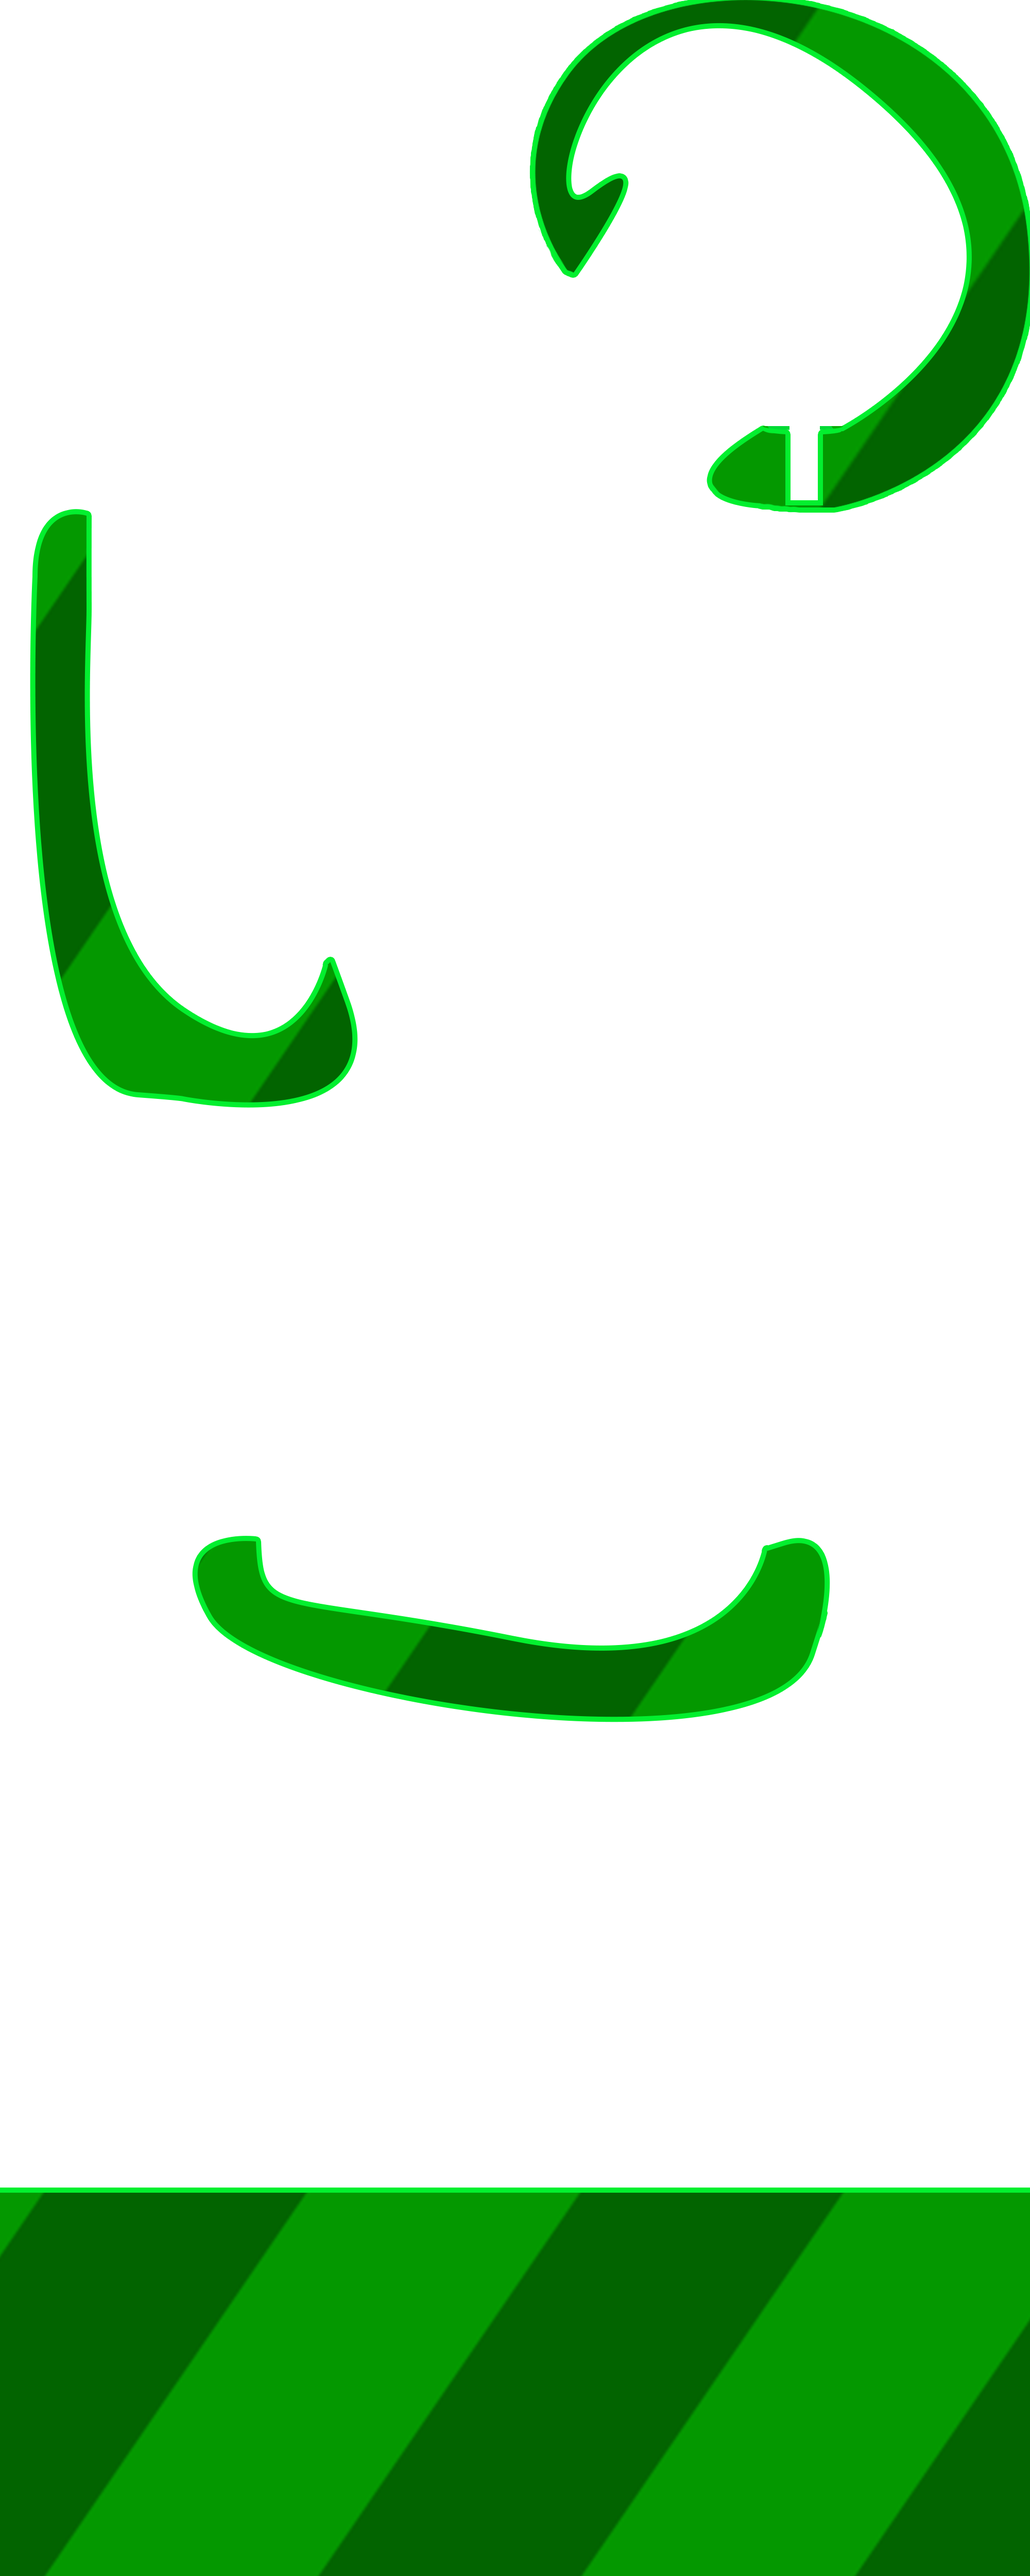
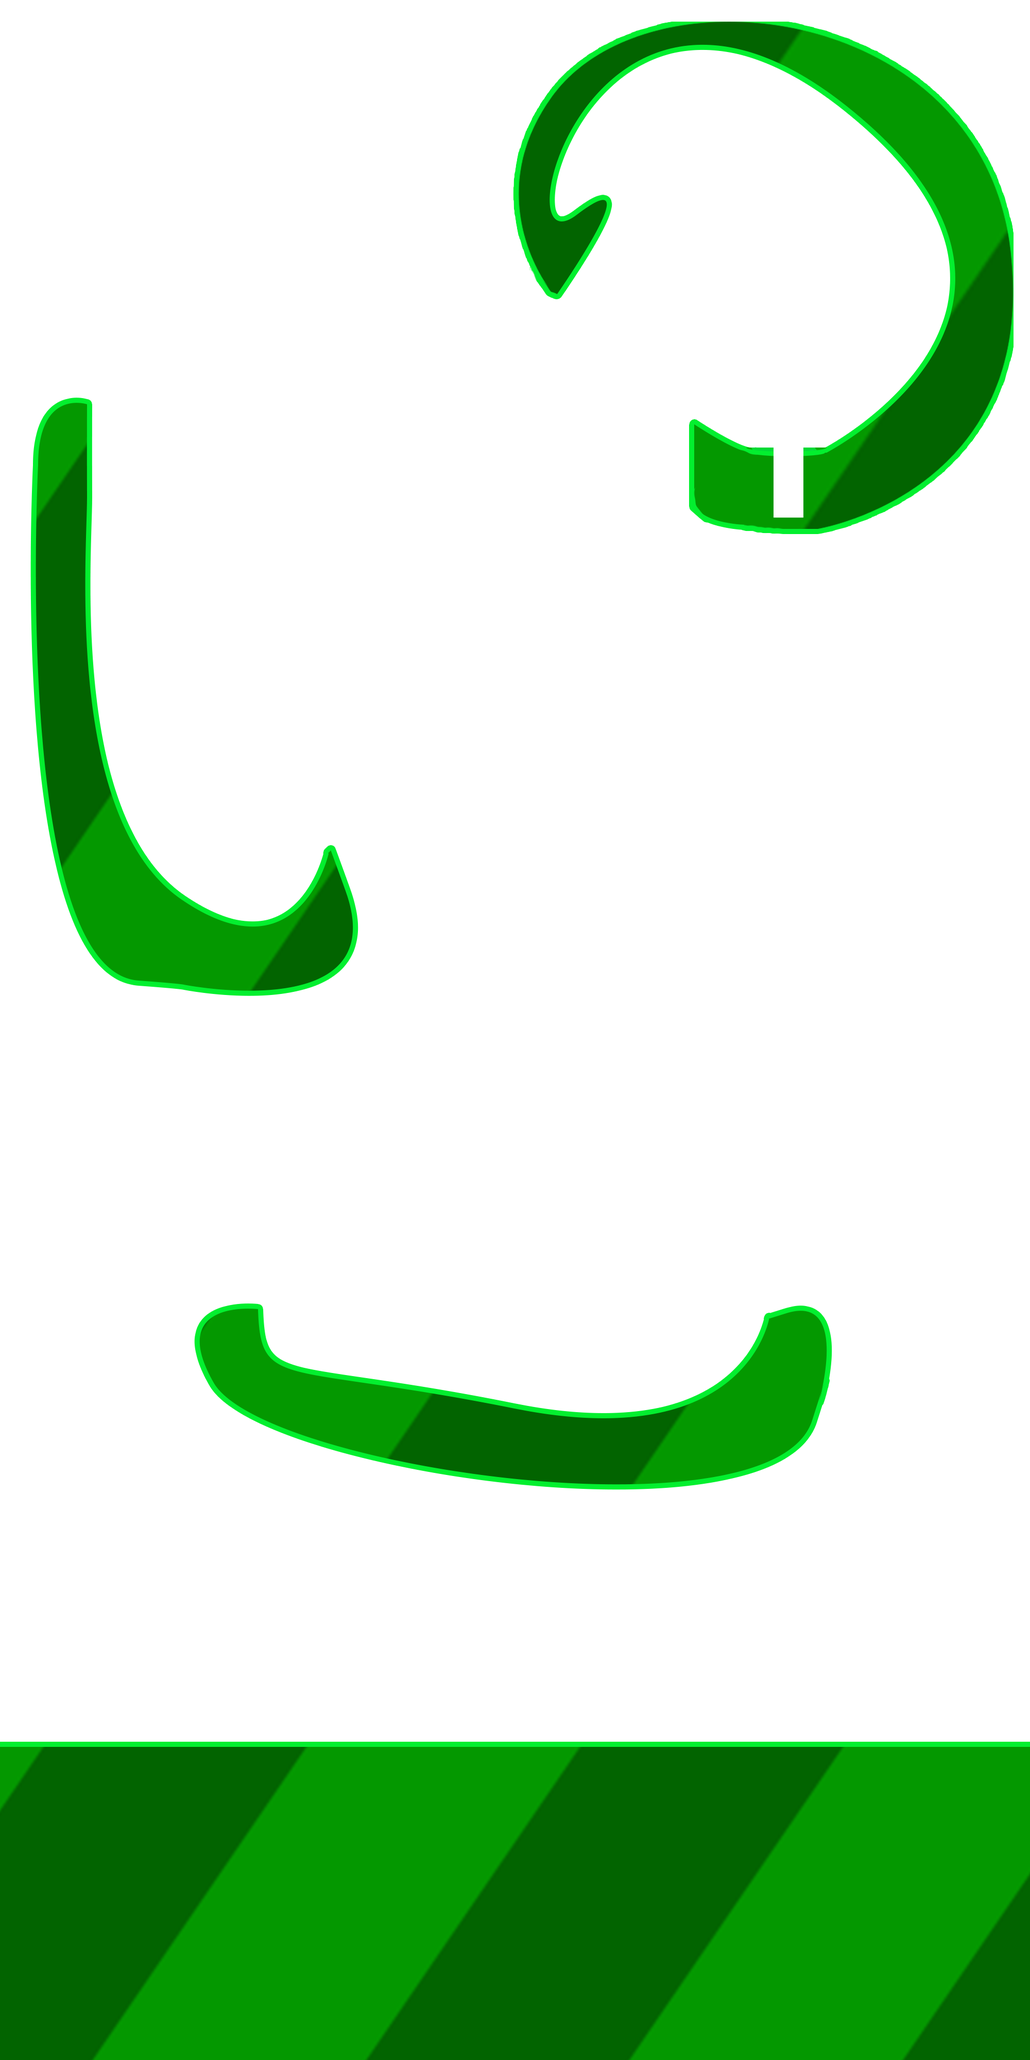
Fixed Level 9 Loading Problems on Mobile Devices

diff --git a/States/Levels/Grass_Land/Level9.js b/States/Levels/Grass_Land/Level9.js
@@ -11,7 +11,23 @@ level9.prototype = {
         this.load.setPreloadSprite(loadingBar);
         this.game.load.image("Fairway", "Graphics/Level_Assets/Grass_Land/Level9/Level9.png");
 
-        this.game.world.setBounds(0, -500, 2000, 5500);
+        this.game.load.spritesheet("ButtonSq", "Graphics/Buttons/Button-Square.png", 150, 150);
+        this.game.load.spritesheet("Shot", "Graphics/Player/Swing.png", 140, 140);
+        this.game.load.image("Ball", "Graphics/Player/Ball.png");
+        this.game.load.physics("Physics", "Graphics/Level_Assets/Grass_Land/Physics.json");
+        //this.game.load.image("Fairway", "Graphics/Level_Assets/Grass_Land/Level1/Level1.png");
+        this.game.load.image("SwingButton", "Graphics/Buttons/Swing-Button.png");
+        this.game.load.image("PowerBar", "Graphics/Buttons/Power-Bar.png");
+        this.game.load.image("PowerFill", "Graphics/Buttons/Gradient.png");
+        this.game.load.image("Arrow", "Graphics/Player/Arrow.png");
+        this.game.load.image("Star", "Graphics/Level_Assets/star.png");
+        this.game.load.image("Block", "Graphics/Player/Block.png");
+        this.game.load.image("BackgroundP", "Graphics/Background/Background-Pause.png");
+        this.game.load.image("Scoreboard", "Graphics/Background/Scoreboard.png");
+        this.game.load.audio("GolfClap", "Music/GolfClap.ogg");
+        this.game.load.audio("GolfSwing", "Music/GolfSwing.ogg");
+
+        this.game.world.setBounds(0, -500, 2000, 4500);
     },
 
     create: function() {
@@ -43,27 +59,27 @@ level9.prototype = {
         this.game.physics.startSystem(Phaser.Physics.P2JS);
         this.game.physics.p2.gravity.y = 1400;
 
-        Clouds = this.game.add.tileSprite(0,-1000, 4000, 11000, "Clouds"); //Values are doubled so that scale is still correct
+        Clouds = this.game.add.tileSprite(0,-1000, 4000, 9000, "Clouds"); //Values are doubled so that scale is still correct
         Clouds.scale.setTo(0.67);
-        Hills = this.game.add.sprite(0,3500,"Hills");
+        Hills = this.game.add.sprite(0,3000,"Hills");
         Hills.scale.setTo(2,1);
 
-        Player = this.game.add.sprite(1000, 4480, "Shot");
+        Player = this.game.add.sprite(1000, 3750, "Shot");
         Player.animations.add("Swing");
         Player.anchor.setTo(0.5, 0.5);
 
-        Ball = this.game.add.sprite(Player.x, 4480, "Ball");
+        Ball = this.game.add.sprite(Player.x, 3750, "Ball");
         Ball.anchor.setTo(0.5, 0.5);
         this.game.physics.p2.enable(Ball);
         Ball.body.clearShapes();
         Ball.body.loadPolygon("Physics", "Ball");
 
-        Block = this.game.add.sprite(1560, 1210, "Block");
+        Block = this.game.add.sprite(1530, 1390, "Block");
         Block.scale.setTo(6);
-        this.game.physics.p2.enable(Block);
+        this.game.physics.p2.enable(Block, true);
         Block.body.static = true;
 
-        Fairway = this.game.add.sprite(this.game.world.centerX, 2750, "Fairway");
+        Fairway = this.game.add.sprite(this.game.world.centerX, 2400, "Fairway");
         Fairway.anchor.setTo(0.5,0.5);
         this.game.physics.p2.enable(Fairway);
         Fairway.body.static = true;
@@ -286,7 +302,7 @@ level9.prototype = {
 
     FinishSwing: function() {
         this.game.camera.follow(Ball, Phaser.Camera.FOLLOW_TOPDOWN);
-        var VelocityX = ((Power * Math.cos((Arrow.angle -90) * Radian) * 10)) * 1.5;
+        var VelocityX = ((Power * Math.cos((Arrow.angle -90) * Radian) * 10)) * 1.1;
         var VelocityY = ((Power * Math.sin((Arrow.angle -90) * Radian) * 10)) * 1.5;
         Ball.body.velocity.x += VelocityX;
         Ball.body.velocity.y += VelocityY;

diff --git a/States/mainmenu.js b/States/mainmenu.js
@@ -516,7 +516,7 @@ mainMenu.prototype = {
         BestTimeText.destroy();
         TotalShotsText.destroy();
         WaterHitText.destroy();
-        this.game.state.start("Level1")
+        this.game.state.start("Level9")
     },
 
     round: function(value){
